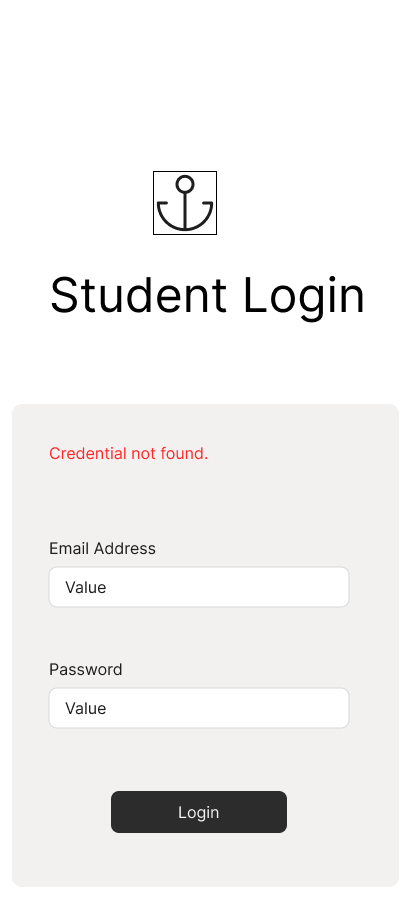
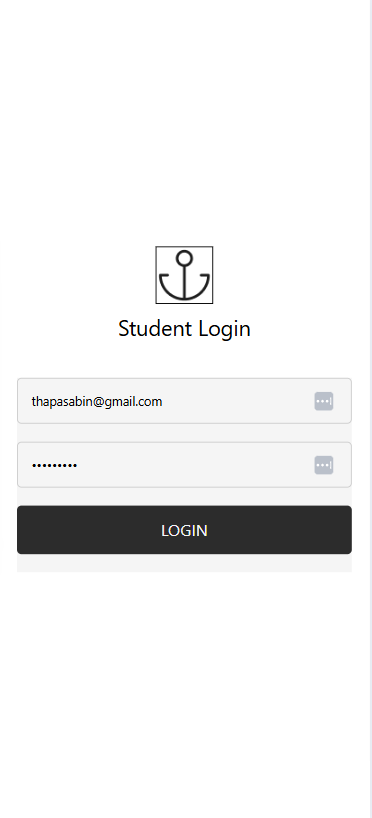
added app wireframe and ui for screens

diff --git a/socialimpact-app/src/screens/CourseList.tsx b/socialimpact-app/src/screens/CourseList.tsx
@@ -6,18 +6,20 @@ import {
   TouchableOpacity,
   StyleSheet,
   TextInput,
+  Button,
 } from "react-native";
 import { useNavigation } from "@react-navigation/native";
 
 interface Course {
   id: string;
   title: string;
-  progress: number;
+  total: number;
+  completed: number;
 }
 
 const mockCourses: Course[] = [
-  { id: "1", title: "Social Impact", progress: 50 },
-  { id: "2", title: "Ethics Training", progress: 80 },
+  { id: "1", title: "Social Impact", total: 100, completed: 50 },
+  { id: "2", title: "Ethics Training", total: 100, completed: 80 },
 ];
 
 const CourseList = () => {
@@ -30,40 +32,27 @@ const CourseList = () => {
   );
 
   const renderItem = ({ item }: { item: Course }) => (
-    <TouchableOpacity
-      style={styles.courseCard}
-      onPress={() =>
-        navigation.navigate("ProgressDetail" as never, { course: item })
-      }
-    >
+    <View style={styles.courseCard}>
       <Text style={styles.courseTitle}>{item.title}</Text>
-      <Text>Progress: {item.progress}%</Text>
-      <View style={[styles.progressBar, { width: `${item.progress}%` }]} />
-    </TouchableOpacity>
+      <TouchableOpacity
+        style={styles.button}
+        onPress={() =>
+          navigation.navigate("ProgressDetail" as never, { course: item })
+        }
+      >
+        <Text style={styles.buttonText}>View Progress</Text>
+      </TouchableOpacity>
+    </View>
   );
 
   return (
     <View style={styles.container}>
-      <View style={styles.header}>
-        <TextInput
-          style={styles.searchInput}
-          placeholder="Search Courses..."
-          value={search}
-          onChangeText={setSearch}
-        />
-        <TouchableOpacity style={styles.menuButton}>
-          <Text>Menu</Text>
-        </TouchableOpacity>
-      </View>
       <FlatList
         data={filteredCourses}
         renderItem={renderItem}
         keyExtractor={(item) => item.id}
         style={styles.list}
       />
-      <TouchableOpacity style={styles.fab}>
-        <Text>Enroll New</Text>
-      </TouchableOpacity>
     </View>
   );
 };
@@ -93,27 +82,34 @@ const styles = StyleSheet.create({
     flex: 1,
   },
   courseCard: {
-    padding: 15,
+    padding: 5,
     borderBottomWidth: 1,
     borderBottomColor: "#eee",
+    borderRadius: 5,
+    flexDirection: "row",
+    alignItems: "center",
+    backgroundColor: "#F2F2F2",
   },
   courseTitle: {
+    color: "#000000",
     fontSize: 18,
     fontWeight: "bold",
+    flex: 0.4,
   },
-  progressBar: {
-    height: 10,
-    backgroundColor: "#007AFF",
+  button: {
+    backgroundColor: "#2C2C2C",
+    padding: 2,
     borderRadius: 5,
-    marginTop: 5,
+    flex: 0.6,
+    alignItems: "center",
+    justifyContent: "center",
+    maxWidth: 130,
+    minHeight: 40,
+    marginTop: 2,
   },
-  fab: {
-    position: "absolute",
-    bottom: 20,
-    right: 20,
-    backgroundColor: "#007AFF",
-    padding: 15,
-    borderRadius: 30,
+  buttonText: {
+    color: "#F5F5F5",
+    fontSize: 12,
   },
 });
 

diff --git a/socialimpact-app/src/screens/Login.tsx b/socialimpact-app/src/screens/Login.tsx
@@ -6,6 +6,7 @@ import {
   TouchableOpacity,
   StyleSheet,
   Alert,
+  Image,
 } from "react-native";
 import { useNavigation } from "@react-navigation/native";
 
@@ -25,30 +26,28 @@ const Login = () => {
 
   return (
     <View style={styles.container}>
-      <Text style={styles.title}>Welcome Back!</Text>
-      <TextInput
-        style={styles.input}
-        placeholder="Email Address"
-        value={email}
-        onChangeText={setEmail}
-        keyboardType="email-address"
-        autoCapitalize="none"
-      />
-      <TextInput
-        style={styles.input}
-        placeholder="Password"
-        value={password}
-        onChangeText={setPassword}
-        secureTextEntry
-      />
-      <TouchableOpacity style={styles.button} onPress={handleLogin}>
-        <Text style={styles.buttonText}>LOGIN</Text>
-      </TouchableOpacity>
-      <TouchableOpacity
-        onPress={() => Alert.alert("Forgot Password", "Reset link sent")}
-      >
-        <Text style={styles.link}>Forgot Password?</Text>
-      </TouchableOpacity>
+      <Image source={require("../../assets/Logo.png")} style={styles.logo} />
+      <Text style={styles.title}>Student Login</Text>
+      <View style={{ backgroundColor: "#F5F5F5" }}>
+        <TextInput
+          style={styles.input}
+          placeholder="Email Address"
+          value={email}
+          onChangeText={setEmail}
+          keyboardType="email-address"
+          autoCapitalize="none"
+        />
+        <TextInput
+          style={styles.input}
+          placeholder="Password"
+          value={password}
+          onChangeText={setPassword}
+          secureTextEntry
+        />
+        <TouchableOpacity style={styles.button} onPress={handleLogin}>
+          <Text style={styles.buttonText}>LOGIN</Text>
+        </TouchableOpacity>
+      </View>
     </View>
   );
 };
@@ -60,10 +59,18 @@ const styles = StyleSheet.create({
     padding: 20,
     backgroundColor: "#fff",
   },
+  logo: {
+    fontSize: 64,
+    marginBottom: 10,
+    alignSelf: "center",
+  },
   title: {
     fontSize: 24,
     textAlign: "center",
     marginBottom: 40,
+  },
+  formView: {
+    backgroundColor: "#F3F0F0",
   },
   input: {
     borderWidth: 1,
@@ -73,19 +80,15 @@ const styles = StyleSheet.create({
     borderRadius: 5,
   },
   button: {
-    backgroundColor: "#007AFF",
+    backgroundColor: "#2C2C2C",
     padding: 15,
     borderRadius: 5,
     alignItems: "center",
     marginBottom: 20,
   },
   buttonText: {
-    color: "#fff",
+    color: "#F5F5F5",
     fontSize: 18,
-  },
-  link: {
-    textAlign: "center",
-    color: "#007AFF",
   },
 });
 

diff --git a/socialimpact-app/src/screens/ProgressDetail.tsx b/socialimpact-app/src/screens/ProgressDetail.tsx
@@ -1,61 +1,26 @@
 import React from "react";
-import {
-  View,
-  Text,
-  FlatList,
-  TouchableOpacity,
-  StyleSheet,
-} from "react-native";
+import { View, Text, StyleSheet } from "react-native";
 import { useRoute } from "@react-navigation/native";
-
-interface Lesson {
-  id: string;
-  title: string;
-  completed: boolean;
-}
 
 interface Course {
   title: string;
-  progress: number;
+  total: number;
+  completed: number;
 }
-
-const mockLessons: Lesson[] = [
-  { id: "1", title: "Intro", completed: true },
-  { id: "2", title: "Case Study", completed: false },
-  // Extend with more mock data
-];
 
 const ProgressDetail = () => {
   const route = useRoute();
   const { course } = route.params as { course: Course };
-
-  const renderLesson = ({ item }: { item: Lesson }) => (
-    <View style={styles.lessonItem}>
-      <Text style={styles.lessonTitle}>{item.title}</Text>
-      <Text>{item.completed ? "Completed" : "In Progress"}</Text>
-    </View>
-  );
+  const progress = (course.completed / course.total) * 100;
 
   return (
     <View style={styles.container}>
       <View style={styles.header}>
         <Text style={styles.courseTitle}>{course.title}</Text>
-        <Text>Overall: 50% Complete</Text>
-        <View style={[styles.progressBar, { width: `${course.progress}%` }]} />
-      </View>
-      <FlatList
-        data={mockLessons}
-        renderItem={renderLesson}
-        keyExtractor={(item) => item.id}
-        style={styles.list}
-      />
-      <View style={styles.bottomButtons}>
-        <TouchableOpacity style={styles.button}>
-          <Text>Mark Complete</Text>
-        </TouchableOpacity>
-        <TouchableOpacity style={styles.button}>
-          <Text>Next</Text>
-        </TouchableOpacity>
+        <Text>
+          {course.completed}/{course.total} Completed
+        </Text>
+        <View style={[styles.progressBar, { width: `${progress}%` }]} />
       </View>
     </View>
   );
@@ -79,33 +44,6 @@ const styles = StyleSheet.create({
     height: 20,
     backgroundColor: "#007AFF",
     borderRadius: 10,
-  },
-  list: {
-    flex: 1,
-    padding: 10,
-  },
-  lessonItem: {
-    flexDirection: "row",
-    justifyContent: "space-between",
-    padding: 15,
-    borderBottomWidth: 1,
-    borderBottomColor: "#eee",
-  },
-  lessonTitle: {
-    fontSize: 16,
-  },
-  bottomButtons: {
-    flexDirection: "row",
-    justifyContent: "space-around",
-    padding: 20,
-  },
-  button: {
-    backgroundColor: "#007AFF",
-    padding: 10,
-    borderRadius: 5,
-    flex: 1,
-    marginHorizontal: 5,
-    alignItems: "center",
   },
 });
 
